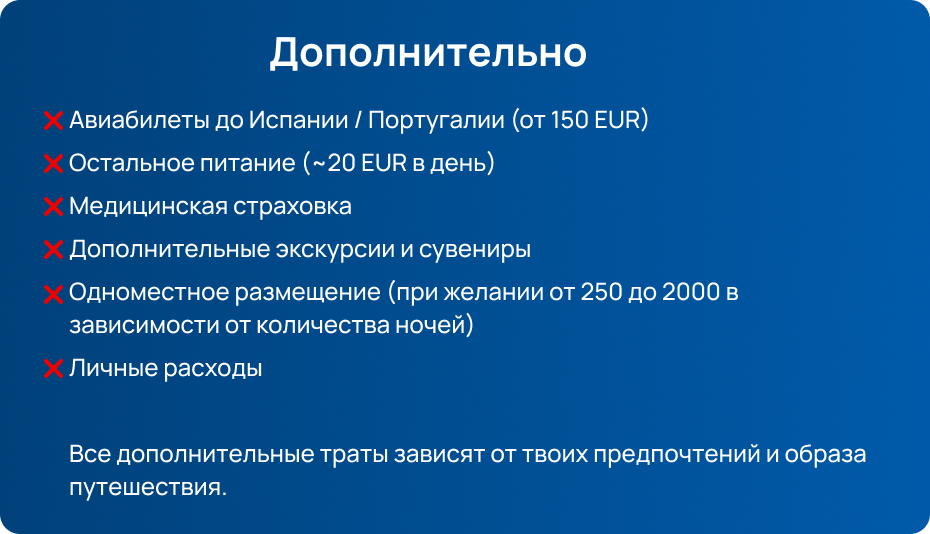
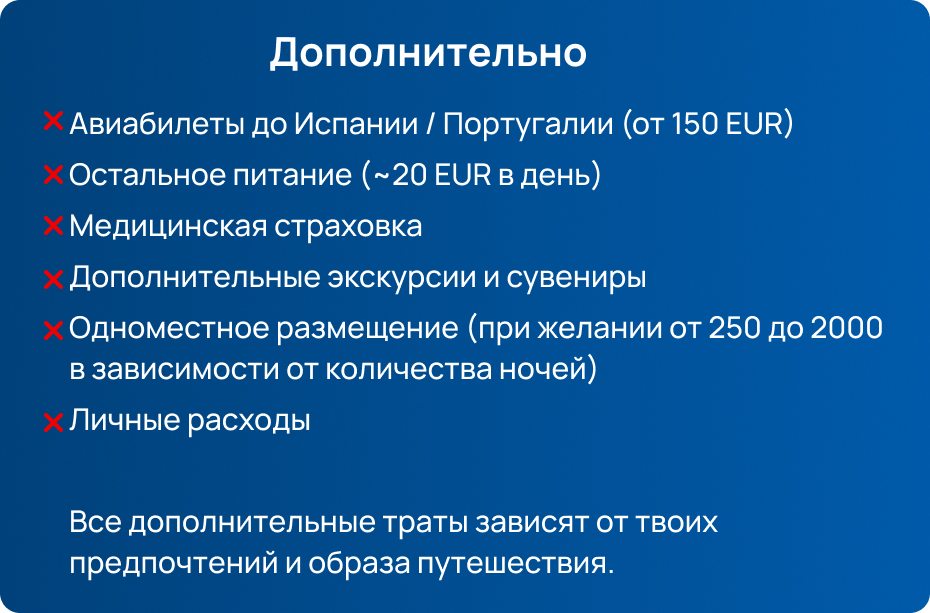
:bug: font fix

diff --git a/src/pages/Homepage.css b/src/pages/Homepage.css
@@ -80,7 +80,7 @@
 .homepage-coordinator-message-text {
   color: #00417A;
   font-family: "Manrope", sans-serif;
-  font-size: 1vw;
+  font-size: 1.2vw;
   font-weight: 500;
   text-align: left;
   margin-top: 1.5vw;
@@ -204,7 +204,7 @@
 }
 .homepage-trip-description {
   font-family: "Manrope", sans-serif;
-  font-size: 1vw;
+  font-size: 1.2vw;
   color: #2C2C2C;
   position: relative;
   left: 50%;
@@ -212,6 +212,7 @@
   text-align: center;
   margin-top: 2vw;
   font-weight: 300;
+  width: 90vw;
 }
 
 .homepage-trip-button {
@@ -267,17 +268,19 @@
 }
 
 .gallery-list {
-  margin-left: -0.5vw;
+  width: 100vw;
+  margin-left: calc(-50vw + 50%);
+  padding: 0;
+  list-style: none;
   display: flex;
   flex-direction: column;
   gap: 1vw;
-  padding: 0;
-  list-style: none;
-  width: 100%;
   align-items: center;
 }
 
 .gallery-list li {
+  width: 100vw;
+  margin-left: calc(-50vw + 50%);
   display: flex;
   flex-direction: row;
   gap: 1vw;
@@ -286,10 +289,8 @@
 }
 
 .gallery-list li img {
-  object-fit: cover;
-  border-radius: 0.5vw;
-  transition: transform 0.3s ease;
-  cursor: pointer;
+   width: auto;
+  height: 21vw;
 }
 
 
@@ -479,12 +480,12 @@
 
 .homepage-partners-title {
   text-align: center;
-  font-size: 2vw;
+  font-size: 4vw;
 }
 
 .homepage-partners-description{
   font-family: "Manrope", sans-serif;
-  font-size: 1vw;
+  font-size: 1.2vw;
   font-weight: 500;
   color: #2C2C2C;
   margin: 0;
@@ -526,11 +527,12 @@
 }
 
 .homepage-partners li img {
-  max-width: 15vw;
+  width: 12vw;
   height: auto;
   object-fit: contain;
   cursor: pointer;
   transition: all 0.3s ease;
+  margin-top: 2vw;
 }
 
 .homepage-partners li img:hover {
@@ -545,15 +547,24 @@
   }
   
   .homepage-partners li img {
-    max-width: 25vw;
-  }
+  width: 24vw;
+  height: auto;
+  object-fit: contain;
+  cursor: pointer;
+  transition: all 0.3s ease;
+  margin-top: 2vw;
+}
   .homepage-partners-title {
     text-align: center;
     font-size: 6vw;
   }
   .homepage-partners-description {
-    font-size: 3vw;
-    
+    font-size: 3vw; 
+  }
+  .homepage-aboutus-list-item-icon {
+    width: 10vw;
+    height: 10vw;
+    margin-bottom: 1vw;
   }
 }
 
@@ -606,7 +617,7 @@
   }
 
   .homepage-trip-description {
-    font-size: 3vw;
+    font-size: 4vw;
   }
 
   .homepage-trip-button {
@@ -619,12 +630,12 @@
   }
 
   .homepage-aboutus-description {
-    font-size: 3vw;
+    font-size: 4vw;
     width: 90vw;
   }
 
   .homepage-aboutus-list-text {
-    font-size: 2.5vw;
+    font-size: 4vw;
   }
 
   .homepage-other-content {
@@ -653,7 +664,7 @@
     gap: 3vw;
   }
   .homepage-aboutus-list {
-    margin-left: 23vw;
+    margin-left: 17vw;
   }
   .homepage-second-bg {
     display: none;
@@ -669,7 +680,7 @@
     width: 100%;
   }
   .homepage-coordinator-message-text {
-    font-size: 3vw;
+    font-size: 4vw;
   }
   .homepage-coordinator-message-img {
     height: 5vw;

diff --git a/src/pages/HomePage.tsx b/src/pages/HomePage.tsx
@@ -16,6 +16,8 @@ import whyus from "../assets/Dece sa calatoresti cu noi.jpg"
 import Contacts from "../components/contacts"
 import Footer from "../components/footer"
 import whyusru from "../assets/whyusru.jpg"
+import whyusrumob from "../assets/Dece sa calatoresti cu noi mobile ru.jpg"
+import whyusromob from "../assets/Dece sa calatoresti cu noi mobile ro.jpg"
 import secondbg from "../assets/pexels-zhicheng-zhang-312594413-15193338 (2).png"
 import gallery1 from "../assets/galerie/image.jpg"
 import gallery2 from "../assets/galerie/image (1).jpg"
@@ -47,6 +49,7 @@ interface HomePageProps {
 const HomePage: React.FC<HomePageProps> = ({ currentLang, setCurrentLang }) => {
   const [liveChatOpen, setLiveChatOpen] = useState(false);
   const navigate = useNavigate(); // Add this line
+  const isMobile = window.innerWidth <= 768;
 
   // Gallery images array for navigation
   const galleryImages = [
@@ -256,7 +259,14 @@ const HomePage: React.FC<HomePageProps> = ({ currentLang, setCurrentLang }) => {
       <div className='homepage-other-content'>
         <img src={harta} className='homepage-other-content-harta'/>
         <h1 className='homepage-whyus-text'>{translations[currentLang].homepage.whyus}</h1>
-        <img src={currentLang === 'ru' ? whyusru : whyus} className='homepage-whyus-img' />
+        <img
+          src={
+            isMobile
+              ? (currentLang === 'ru' ? whyusrumob : whyusromob)
+              : (currentLang === 'ru' ? whyusru : whyus)
+          }
+          className='homepage-whyus-img'
+        />
         <div className='homepage-coordinator-message'>
           <img src={coordonatorsus} className='homepage-coordinator-message-img' />
             <div 

diff --git a/src/components/contacts.css b/src/components/contacts.css
@@ -19,7 +19,7 @@
 .contacts-text {
   font-family: "Manrope", sans-serif;
   font-size: 1.2vw;
-  font-weight: 300;
+  font-weight: 500;
   color: #2C2C2C;
   max-width: 60vw;
   line-height: 1.6;
@@ -43,8 +43,8 @@
 
 .contacts-description {
   font-family: "Manrope", sans-serif;
-  font-size: 1.1vw;
-  font-weight: 400;
+  font-size: 1.2vw;
+  font-weight: 500;
   color: #2C2C2C;
   margin: 0;
 }
@@ -88,18 +88,18 @@
     font-size: 7vw;
   }
   .contacts-text {
-    font-size: 3vw;
+    font-size: 4vw;
     max-width: 90vw;
   }
   .contacts-name {
     font-size: 5vw;
   }
   .contacts-description {
-    font-size: 3vw;
+    font-size: 4vw;
   }
   .contacts-number,
   .contacts-email {
-    font-size: 3vw;
+    font-size: 4vw;
   }
   .contacts-image {
     width: 35vw;

diff --git a/src/components/abouttrip.css b/src/components/abouttrip.css
@@ -73,11 +73,11 @@
 
 .abouttrip-description {
   font-family: "Manrope", sans-serif;
-  font-size: 1vw;
-  font-weight: 300;
-  color: #666666;
+  font-size: 1.2vw;
+  font-weight: 500;
+  color: #2C2C2C;
   text-align: center;
-  max-width: 60vw;
+  max-width: 80vw;
   line-height: 1.4;
   margin: 0;
 }
@@ -145,7 +145,7 @@
   }
 
   .abouttrip-list-item-value {
-    font-size: 3vw;
+    font-size: 4vw;
     text-align: center;
   }
 
@@ -158,9 +158,12 @@
   }
 
   .abouttrip-description {
-    font-size: 2.8vw;
+    font-size: 4vw;
     max-width: 90vw;
     margin: 0 auto;
     text-align: center;
+  }
+  .abouttrip-description {
+    font-size: 4vw;
   }
 }

diff --git a/src/components/echipamnt.css b/src/components/echipamnt.css
@@ -55,7 +55,7 @@
 
 .echipamnt-item-title {
   font-family: "Manrope", sans-serif;
-  font-size: 1.2vw;
+  font-size: 1.5vw;
   font-weight: 500;
   color: #2C2C2C;
   text-align: left;
@@ -64,7 +64,7 @@
 
 .echipamnt-item-description {
   font-family: "Manrope", sans-serif;
-  font-size: 1vw;
+  font-size: 1.2vw;
   font-weight: 400;
   color: #2C2C2C;
   text-align: left;
@@ -92,7 +92,7 @@
   }
   
   .echipamnt-item-title {
-    font-size: 5vw;
+    font-size: 6vw;
   }
   
   .echipamnt-item-description {

diff --git a/src/components/experianta.css b/src/components/experianta.css
@@ -84,13 +84,13 @@
   }
   
   .experienta-title {
-    font-size: 8vw;
+    font-size: 7vw;
     width: 90vw;
     margin-bottom: 4vw;
   }
   
   .experienta-description {
-    font-size: 3.5vw;
+    font-size: 4vw;
     max-width: 90vw;
     margin-bottom: 6vw;
   }

diff --git a/src/components/treidescription.css b/src/components/treidescription.css
@@ -50,7 +50,7 @@
 
 .trip-description-text {
   font-family: "Manrope", sans-serif;
-  font-size: 1.3vw;
+  font-size: 1.2vw;
   font-weight: 400;
   color: #2C2C2C;
   line-height: 1.6;

diff --git a/src/components/calendar.css b/src/components/calendar.css
@@ -147,7 +147,7 @@
 
 
   .calendar-content-text {
-    font-size: 3.5vw;
+    font-size: 4vw;
     line-height: 1.5;
     text-align: left;
     padding: 0 2vw;
